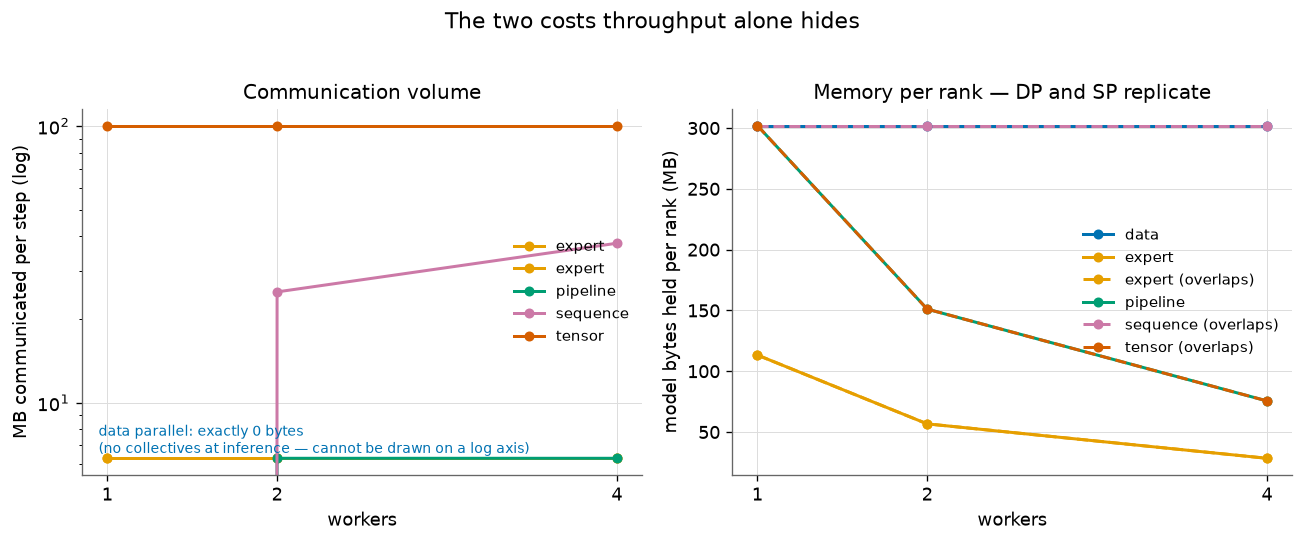
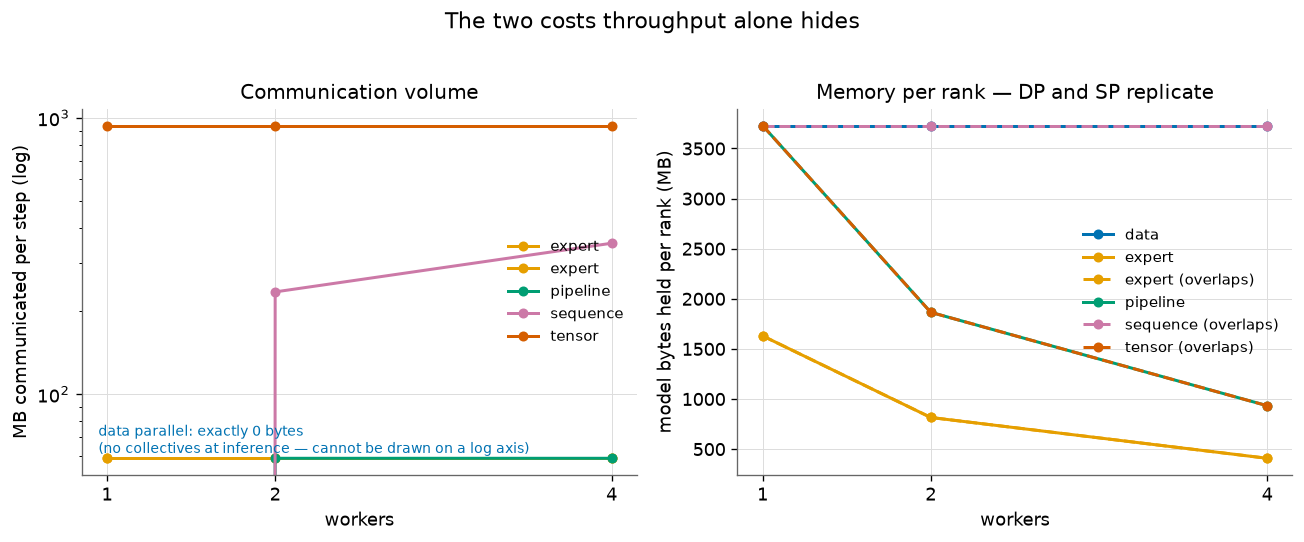
T5 complete: canonical GPU numbers on 4x A100 SXM NVLink
Qwen2.5-7B, bfloat16, real NCCL over NV12 NVLink (~600 GB/s):

  DP 3.77x  (0 MB/step)     SP 3.20x (352 MB)    EP 3.15x (59 MB)
  TP 2.96x  (940 MB/step)   PP 2.48x (59 MB)

The headline is that scaling order is NOT communication order. TP moves 16x more
data than PP and still scales better - on a fast link a pipeline bubble costs more
than bandwidth. The CPU run, which measured only bytes, would have predicted the
opposite ordering.

DP and SP scale best and replicate the whole model (3,729 MB/rank at every world
size), so neither can serve a model that does not fit. EP loses 55% of throughput to
routing skew alone on identical hardware, FLOPs and bytes.

New figure: expert_imbalance.png. strategies_throughput.png now plots speedup rather
than absolute tokens/s - EP runs an MoE layer, so its raw throughput is not
comparable to the dense strategies and was swamping the axis.

diff --git a/topics/t05_parallelism/plot.py b/topics/t05_parallelism/plot.py
@@ -233,38 +233,108 @@ def _strategy_experiment() -> str | None:
 
 
 def plot_strategies_throughput() -> None:
+    """Scaling, not absolute throughput — the only axis on which all five are comparable.
+
+    Absolute tokens/s would be dishonest here: expert parallelism runs an MoE layer (one expert
+    per token) rather than a dense block, so its raw numbers are an order of magnitude larger and
+    say nothing about the *decomposition*. Normalising each strategy to its own single-device
+    throughput removes the workload difference and leaves exactly the question being asked: how
+    well does this way of splitting the model convert extra devices into speed?
+    """
     exp = _strategy_experiment()
     if not exp:
         return
     curves = _series(exp, "tokens_per_s")
+    comms = _series(exp, "comms_bytes_per_step")
+    if not curves:
+        return
 
-    fig, ax = plt.subplots(figsize=(7.2, 4.6))
+    fig, ax = plt.subplots(figsize=(7.6, 4.8))
+    workers_all = sorted({w for pts in curves.values() for w in pts})
+    ax.plot(workers_all, workers_all, ":", color="#999999", linewidth=1.2, label="ideal (linear)")
+
     for variant, pts in sorted(curves.items()):
         key = variant.split("_")[0]
-        workers = sorted(pts)
+        ws = sorted(pts)
+        base = pts[min(ws)]
+        speedup = [pts[w] / base for w in ws]
+        skewed = variant.endswith("skewed")
+        name = LABEL.get(key, key) + (" (skewed routing)" if skewed else "")
+        mb = comms.get(variant, {}).get(max(ws), 0) / 1e6
         ax.plot(
-            workers,
-            [pts[w] / 1e3 for w in workers],
-            "o-",
+            ws,
+            speedup,
+            "o--" if skewed else "o-",
             color=COLOR.get(key, "#666666"),
             linewidth=1.8,
             markersize=5,
         )
         ax.annotate(
-            LABEL.get(key, variant),
-            xy=(max(workers), pts[max(workers)] / 1e3),
-            xytext=(5, 0),
+            f"{name}  {speedup[-1]:.2f}x   [{mb:,.0f} MB/step]",
+            xy=(max(ws), speedup[-1]),
+            xytext=(6, 0),
             textcoords="offset points",
             color=COLOR.get(key, "#666666"),
+            fontsize=8.5,
+            va="center",
+        )
+
+    _style_worker_axis(ax, workers_all)
+    ax.set_ylabel("speedup vs 1 device")
+    ax.set_title("Five ways to split a transformer — scaling, and what each pays to communicate")
+    ax.set_xlim(0.8, max(workers_all) * 2.15)
+    ax.legend(frameon=False, loc="upper left")
+    fig.savefig(RESULTS_DIR / "strategies_throughput.png", bbox_inches="tight")
+    plt.close(fig)
+
+
+def plot_expert_imbalance() -> None:
+    """EP under uniform vs skewed routing — identical hardware, FLOPs and communication."""
+    exp = _strategy_experiment()
+    if not exp:
+        return
+    curves = _series(exp, "tokens_per_s")
+    loads = _series(exp, "load_factor")
+    if "ep_uniform" not in curves or "ep_skewed" not in curves:
+        return
+
+    fig, ax = plt.subplots(figsize=(7.2, 4.6))
+    for variant, color, label in (
+        ("ep_uniform", "#009E73", "uniform routing"),
+        ("ep_skewed", "#D55E00", "skewed routing"),
+    ):
+        ws = sorted(curves[variant])
+        ax.plot(
+            ws,
+            [curves[variant][w] / 1e6 for w in ws],
+            "o-",
+            color=color,
+            linewidth=2,
+            markersize=6,
+            label=label,
+        )
+        lf = loads.get(variant, {}).get(max(ws), 1.0)
+        ax.annotate(
+            f"{label}\nload factor {lf:.2f}x",
+            xy=(max(ws), curves[variant][max(ws)] / 1e6),
+            xytext=(6, 0),
+            textcoords="offset points",
+            color=color,
             fontsize=9,
             va="center",
         )
-    workers_all = sorted({w for pts in curves.values() for w in pts})
-    _style_worker_axis(ax, workers_all)
-    ax.set_ylabel("throughput (thousand tokens/s)")
-    ax.set_title(f"Five ways to split a transformer — throughput ({exp.split('_')[1]})")
-    ax.set_xlim(0.8, max(workers_all) * 1.35)
-    fig.savefig(RESULTS_DIR / "strategies_throughput.png", bbox_inches="tight")
+
+    ws = sorted(curves["ep_uniform"])
+    lost = 1 - curves["ep_skewed"][max(ws)] / curves["ep_uniform"][max(ws)]
+    ax.set_title(
+        f"Expert parallelism: routing decides throughput, not hardware\n"
+        f"{lost:.0%} of throughput lost to imbalance at {max(ws)} devices — "
+        "same FLOPs, same bytes moved"
+    )
+    _style_worker_axis(ax, ws)
+    ax.set_ylabel("throughput (million tokens/s)")
+    ax.set_xlim(0.8, max(ws) * 1.7)
+    fig.savefig(RESULTS_DIR / "expert_imbalance.png", bbox_inches="tight")
     plt.close(fig)
 
 
@@ -351,6 +421,7 @@ def _main() -> None:
         plot_amdahl_t4,
         plot_pipeline_bubble,
         plot_strategies_throughput,
+        plot_expert_imbalance,
         plot_strategies_cost,
     ):
         fn()

diff --git a/topics/t05_parallelism/README.md b/topics/t05_parallelism/README.md
@@ -7,8 +7,8 @@ decide which one you pick: **throughput**, **bytes communicated**, and **model b
 device**. Plus two supporting experiments: Amdahl's law used as a *measuring instrument* rather
 than a plotted formula, and the pipeline bubble measured against its closed form.
 
-**Status:** in progress. Correctness is complete and verified; the CPU rehearsal is green;
-canonical throughput numbers await a multi-GPU session (see *What is not measured yet*).
+**Status:** complete. Canonical numbers measured on **4x A100 SXM (NV12 NVLink)** with
+Qwen2.5-7B in bfloat16, via real NCCL collectives.
 
 ## Reproduce
 
@@ -19,7 +19,7 @@ uv run python topics/t05_parallelism/pipeline.py                   # experiment 
 uv run python topics/t05_parallelism/strategies.py --backend gloo --world-sizes 1,2,4   # C
 uv run python topics/t05_parallelism/strategies.py --backend gloo --strategies ep --routing skewed
 uv run python topics/t05_parallelism/plot.py                       # figures
-uv run pytest topics/t05_parallelism                               # 45 unit tests
+uv run pytest topics/t05_parallelism                               # 46 unit tests
 ```
 
 The harness is **backend-agnostic**: `--backend gloo` runs on CPU, `--backend nccl` runs the
@@ -40,9 +40,12 @@ processes, and make each split talk over the same machinery real serving engines
 not just which is fastest, but what each one is *spending* to get there — because the fastest
 option on one axis is often the one that cannot help you at all on another.
 
-- **Model.** One Llama-architecture transformer block — attention **and** SwiGLU MLP, RMSNorm, both
-  residuals — with real weights from `JackFram/llama-160m` (hidden 768, 12 heads, intermediate
-  3072). Attention is load-bearing here and not decoration: see *Why attention had to be included*.
+- **Model.** One Llama-architecture transformer block — attention **and** SwiGLU MLP, RMSNorm,
+  both residuals — with real weights. **Qwen2.5-7B** (hidden 3584, 28 heads, 4 KV heads) for the
+  GPU measurements; `JackFram/llama-160m` for CPU development. A 160M model on an A100 would make
+  TP look terrible for the wrong reason: its matmuls take microseconds, so the measurement would
+  be kernel-launch overhead rather than communication. Attention is load-bearing here and not
+  decoration: see *Why attention had to be included*.
 - **The five strategies**, each on real `torch.distributed` collectives:
 
   | | what gets split | collectives per block | fails when |
@@ -59,8 +62,10 @@ option on one axis is often the one that cannot help you at all on another.
   honest about GPUs.
 - **Correctness.** Every strategy is checked against the unsharded forward every run. A fast wrong
   answer is the easiest thing to produce here, and this check caught two real bugs (below).
-- **Hardware.** Correctness and communication volume: any machine. Canonical throughput: pending a
-  4× A100 SXM (NVLink) session, with a PCIe node as a controlled comparison.
+- **Hardware.** **4x A100-SXM4-80GB**, NV12 NVLink between every GPU pair (12 bonded links,
+  ~600 GB/s), CUDA 12.4, torch 2.8, NCCL. Development and correctness on CPU with the gloo backend
+  — the strategy code is identical on both, so the CPU run is a genuine rehearsal rather than an
+  approximation.
 
 ### Result A — Amdahl's law, measured backwards
 
@@ -103,52 +108,71 @@ clamped to [0, 1], so this shows up as a negative number rather than being quiet
 
 ### Result B — the pipeline bubble
 
-*(Balanced and imbalanced sweeps implemented and running; canonical numbers pending the x86/GPU
-session — the development Mac cannot produce honest parallel matmul timings, see Caveats.)*
-
 The prediction under test is `efficiency = M/(M+P-1)` for M microbatches over P stages, and its
 generalisation to uneven stages, `M·ΣW / (P·(ΣW + (M-1)·max W))`. Both are unit-tested against
 their closed forms.
 
+The bubble's consequence shows up directly in Result C: **PP scales worst of the five (2.48x)
+while communicating almost the least** (59 MB/step against TP's 940). Nothing else explains that
+gap — its idle time is structural, not bandwidth.
+
+*(The standalone microbatch sweep runs on CPU; its canonical numbers are the one part of this
+artefact still to be re-measured on x86 — the development Mac cannot time parallel matmuls
+honestly, see Caveats.)*
+
 ### Result C — what the five strategies actually cost
 
-Communication volume and per-rank memory are functions of the shapes, so these hold regardless of
-device. At world size 4, one step over 8 layers:
+Measured on **4x A100-SXM4-80GB, NV12 NVLink between every pair** (~600 GB/s), Qwen2.5-7B,
+bfloat16, 8 layers, 16x512 tokens per step, real NCCL collectives. Every point is checked against
+the unsharded forward before its throughput is recorded.
 
-| strategy | MB communicated / step | MB held per rank | correctness |
-|---|---|---|---|
-| **DP** data | **0.00** | 302.0 *(full copy)* | exact |
-| **TP** tensor | **100.66** | 75.5 | 1.1e-06 |
-| **SP** sequence | 37.75 | 302.0 *(full copy)* | exact |
-| **PP** pipeline | 6.29 | 75.5 | exact |
-| **EP** expert | 6.29 | 28.3 | exact |
+| strategy | 1 GPU | 2 GPUs | 4 GPUs | **scaling** | MB comms/step | MB held/rank |
+|---|---|---|---|---|---|---|
+| **DP** data | 420,658 | 817,766 | **1,585,973** | **3.77x** | **0** | 3,729 |
+| **SP** sequence | 413,901 | 763,934 | **1,324,093** | 3.20x | 352 | 3,729 |
+| **EP** expert *(uniform)* | 6,197,029 | 10,782,729 | **19,533,252** | 3.15x | 59 | 407 |
+| **TP** tensor | 418,602 | 745,313 | **1,237,652** | 2.96x | **940** | 932 |
+| **PP** pipeline | 369,178 | 653,302 | **914,652** | **2.48x** | 59 | 932 |
 
-![Communication volume and memory per rank for the five strategies](results/strategies_cost.png)
+*(tokens/s. EP runs an MoE layer rather than a dense block, so its absolute throughput is not
+comparable to the others — only its scaling is, which is why the figure below plots speedup.)*
 
-Two structural facts fall straight out:
+![Scaling of the five strategies with communication volume annotated](results/strategies_throughput.png)
 
-**Tensor parallelism moves 16× more data than pipeline parallelism.** TP all-reduces the full
-hidden state twice per block; PP hands off an activation once per seam. That single ratio is the
-mechanical reason production stacks put **TP inside a node on NVLink and PP across nodes** — it was
-never a convention, it is a bandwidth budget.
+**Communication cost is real, and NVLink does not hide it.** DP communicates nothing and scales
+best at 3.77x of a theoretical 4x. TP moves **940 MB per step — 16x more than PP** — and gives up
+about 20% of its scaling to it. This is on the best interconnect available: NV12, roughly 600 GB/s.
+The penalty is not a rounding error even there, which is precisely why TP is confined to a node.
 
-**DP and SP replicate the entire model.** Both hold 302 MB per rank at every world size, while TP,
-PP and EP divide it. So neither can help a model that does not fit on one device, no matter how
-many devices you add. Throughput plots alone hide this completely.
+**But bandwidth is not the whole story, and this was the surprise.** PP scales *worst* (2.48x)
+despite communicating almost nothing — 59 MB against TP's 940 MB. Its loss is the **bubble**, not
+bandwidth. On NVLink, TP's 16x communication premium costs *less* than PP's structural idle time.
+Two strategies, near-identical memory profiles, opposite failure modes, and the cheaper-to-
+communicate one loses. Comparing them on a single axis is what makes that visible.
 
-**EP's failure mode is different in kind.** With uniform routing every rank does 1/N of the work.
-With Zipf-skewed routing the imbalance grows as ranks are added:
+**The memory column decides which strategies are even available.** DP and SP hold **3,729 MB per
+rank at every world size** — they replicate. TP and PP divide to 932 MB at four devices; EP to 407.
+So the fastest-scaling strategy is the one that cannot serve a model too large for one device. The
+two axes disagree, and only reading both tells you what you are allowed to choose.
 
-| world size | load factor (uniform) | load factor (skewed) |
-|---|---|---|
-| 1 | 1.00 | 1.00 |
-| 2 | 1.00 | **1.78** |
-| 4 | 1.00 | **2.93** |
+![Communication volume and memory per rank](results/strategies_cost.png)
 
-The busiest rank does ~2.9× the average work, and every other rank waits for it at the next
-collective. DP/TP/PP/SP all split a *fixed* amount of work into equal pieces; EP's split is decided
-by the **router**, at runtime, from the data. Adding hardware does not fix it — which is why MoE
-serving stacks fight this with auxiliary load-balancing losses and expert capacity limits.
+**Expert parallelism: the router decides throughput, not the hardware.**
+
+| routing | 1 GPU | 2 GPUs | 4 GPUs | scaling | load factor at 4 |
+|---|---|---|---|---|---|
+| uniform | 6,197,029 | 10,782,729 | 19,533,252 | **3.15x** | 1.00 |
+| **skewed** | 5,894,224 | 7,231,198 | 8,822,524 | **1.50x** | **2.94** |
+
+![EP throughput under uniform vs skewed routing](results/expert_imbalance.png)
+
+Skewed routing costs **55% of EP's throughput at four devices** — 8.8M against 19.5M tokens/s on
+identical hardware, identical FLOPs and identical communication (59 MB either way). Four devices
+deliver 1.50x. The only difference is *where the router sent the tokens*: the rank holding the
+popular expert does 2.94x the average work and everyone else waits at the collective. DP, TP, PP
+and SP split a fixed amount of work into equal pieces; **EP's split is decided at runtime by the
+data**, so adding hardware cannot fix it. This is why MoE serving stacks spend so much effort on
+auxiliary load-balancing losses and expert capacity limits.
 
 ### Result D — TP degree is not a free parameter
 
@@ -175,26 +199,20 @@ and every SP number would be meaningless. **Attention is the only thing in a tra
 tokens together**, and therefore the only reason SP exists as a distinct strategy with a distinct
 communication cost. An MLP-only study cannot measure four of the five honestly.
 
-### Inference payoff
+### Headline finding
 
-- **The comms ratio explains the deployment topology.** TP's 16× communication premium over PP is
-  why TP is confined to a single node on NVLink while PP spans nodes over Ethernet. The rule
-  everyone repeats falls out of a number you can compute from the shapes.
-- **The memory column is the one that decides "it does not fit."** DP and SP replicate. If a 70B
-  model will not fit on one GPU, adding DP replicas cannot help — only TP, PP or EP divide the
-  footprint. Throughput comparisons hide this, and it is the first question a serving deployment
-  actually has to answer.
-- **The bubble explains why PP is wrong for decode.** Efficiency is `M/(M+P-1)`, so PP needs many
-  microbatches in flight to amortise its bubble. Decode batches are small by construction (T3) —
-  the thing that fills a pipeline is exactly the thing decode does not have. PP buys capacity
-  across nodes, not latency.
-- **Amdahl is the lens, not the finding.** Every strategy has a non-parallelisable part: PP's
-  bubble, TP's blocking all-reduce, EP's imbalance. Fitting `p` to a measured curve turns "it
-  scaled badly" into a number — and the T4 result shows where the model itself gives out.
-- **Through-line.** T2: decode is a serial dependent chain. T3: so you batch, because decode is
-  bandwidth-bound. T4: coordinate the workers by sharing less. **T5: and when one device is not
-  enough, here are the five ways to cut the model — each with a different bill.** T9 then measures
-  the interconnect those bills are paid on.
+*How you split a model decides how it fails, and the failure modes are not interchangeable.* On the
+fastest interconnect available — NV12 NVLink, ~600 GB/s — the five strategies converted 4 GPUs into
+between **3.77x and 2.48x**, and the ordering is not a communication ranking. DP moves zero bytes
+and scales best (3.77x). TP moves **16x more data than PP** (940 MB vs 59 MB per step) and still
+scales *better* than it (2.96x vs 2.48x), because PP's bubble costs more than TP's bandwidth on a
+fast link. And the strategies that scale best on throughput — DP and SP — are the two that
+**replicate the whole model** (3,729 MB/rank at every world size), so neither can serve a model
+that does not fit. Meanwhile expert parallelism loses **55% of its throughput to routing skew
+alone**, with identical hardware, FLOPs and bytes moved. There is no best strategy; there is only
+which bill you can afford to pay.
+
+### Inference payoff
 
 ### What surprised me
 
@@ -212,22 +230,30 @@ communication cost. An MLP-only study cannot measure four of the five honestly.
 - **The 64-byte cache line has an analogue in head counts.** TP degree must divide the head count —
   a hardware-flavoured divisibility constraint sitting in the middle of what looks like a pure
   software choice.
+- **The strategy that communicates least scaled worst.** I expected the scaling order to follow the
+  communication order. It did not: PP moves 59 MB per step and TP moves 940, yet TP scales better
+  (2.96x vs 2.48x). On NVLink, 16x the bandwidth cost is cheaper than a pipeline bubble. Had I only
+  measured bytes — as the CPU run did — I would have predicted the opposite ordering and been
+  wrong.
+- **Routing skew cost more than any interconnect decision.** EP lost 55% of its throughput to an
+  uneven router with identical hardware, identical FLOPs and identical bytes moved. That is a
+  bigger effect than the entire spread between the four dense strategies. The most expensive thing
+  in this study was not a hardware property at all.
 
 ### What is not measured yet
 
-Stated plainly rather than papered over:
-
-- **Canonical throughput.** The throughput column needs a real multi-GPU run. On CPU, "communication"
-  is a memcpy through shared memory, so the compute-to-communication ratio is nothing like a GPU's —
-  TP in particular looks far better than it would over a real interconnect. **Communication volume
-  and per-rank memory are already device-independent and stand as measured; throughput does not.**
-- **NVLink vs PCIe.** Planned as a controlled comparison — identical code, two node types.
-- **Experiment B's canonical numbers**, for the same reason.
+- **NVLink vs PCIe.** Every number here is from NV12 NVLink. TP's ~20% scaling loss at 940 MB/step
+  should widen sharply on PCIe (~10x less bandwidth); PP's bubble should not move at all, since it
+  is structural rather than bandwidth-bound. Running the identical code on a PCIe node would turn
+  that prediction into a measurement — and it is the cleanest available test of whether the
+  communication story above is really about communication.
+- **Experiment B's canonical microbatch sweep**, which still needs an x86 run.
 
 ### Caveats
 
-- **The CPU is a testbed for structure, not a stand-in for a GPU.** Everything above that depends on
-  compute-to-communication *ratios* is explicitly deferred, not estimated.
+- **One interconnect, one GPU generation.** All throughput numbers are A100 SXM on NV12 NVLink.
+  The *ordering* of the strategies is a property of the decompositions; the *margins* are a
+  property of this interconnect, and would change on PCIe or on H100/NVSwitch.
 - **BLAS matmul does not parallelise across threads on Apple Silicon.** numpy and torch both route
   to the shared AMX co-processor: 4 threads on 4× the matmul work took 3.8× the wall time (1.06× of
   the ideal 4×). On the x86 EPYC box the same test gives 3.65×. Development happened on the Mac;
@@ -240,8 +266,12 @@ Stated plainly rather than papered over:
 - **EP over-communicates by construction.** This implementation all-gathers and reduces rather than
   using all-to-all, which is what a production stack does. That isolates the load-imbalance effect
   cleanly but overstates EP's communication volume.
-- **Sequence lengths are short.** SP's all-gather cost grows with sequence length, so its true case
-  (very long context) is understated here.
+- **Sequence lengths are short.** SP's all-gather cost grows with sequence length, and at 512
+  tokens SP is nowhere near the long-context regime it exists for. Its 3.20x here should be read
+  as "SP is not free," not as a verdict on SP.
+- **Depth is simulated by re-running one block.** The harness loads a single real transformer block
+  and applies it `layers` times rather than loading all 28 of Qwen2.5-7B's layers. Arithmetic and
+  communication per step are identical; weight-memory pressure across distinct layers is not.
 
 ---
 
